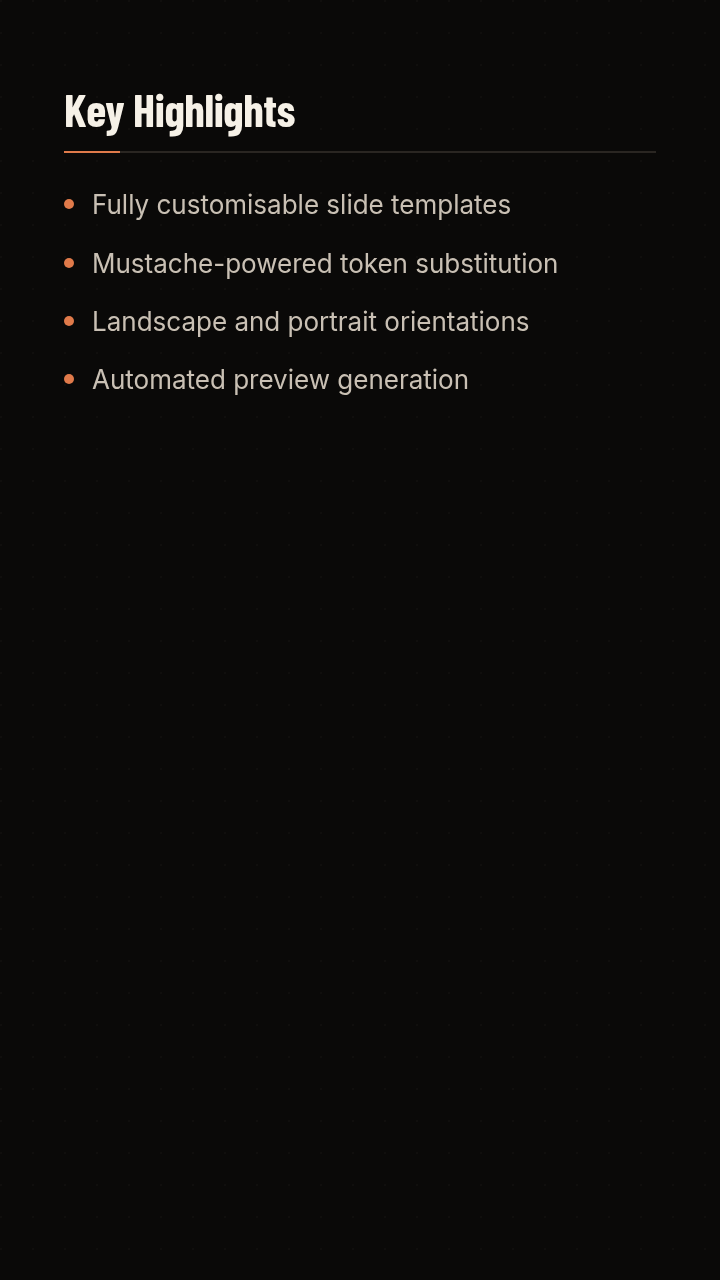
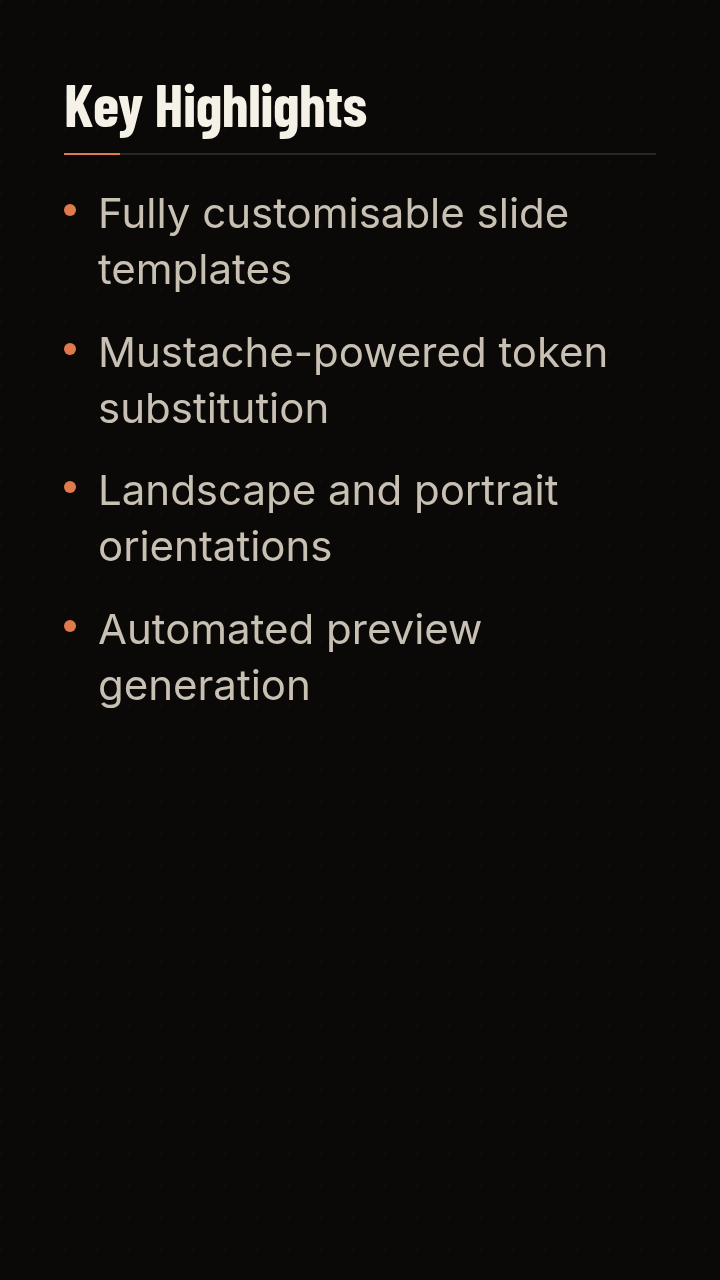
fix(templates): finish the portrait type pass for both Reel decks
Same cause as the previous commit: portrait kept landscape's absolute px type on
a canvas 1.78x taller, so type-as-share-of-frame fell to roughly half. This
extends the fix to every remaining template the two live Reel projects use, so
the decks do not need another round template by template.

bullet-list — the one that was reported. It held the SMALLEST body text in the
whole set: 26px, 2.03% of frame height, 39px at the 1080x1920 export. Body goes
to 42px (3.28%), title 46px to 60px (3.59% to 4.69%).

callout — body 29px to 40px (2.27% to 3.13%), title 59px to 64px, eyebrow 17px
to 22px.

stat-number — the sentence 37px to 46px (2.89% to 3.59%), source 17px to 22px,
eyebrow 19px to 24px. The 248px value is already 19.38% of the frame and is
untouched.

title — heading 76px to 88px (5.94% to 6.88%), subtitle 30px to 40px (2.34% to
3.13%), measure 560px to 592px.

big-statement — eyebrow only, 19px to 24px. Its statement is already 6.88% of
frame height and reads fine.

THE camera_box CONSTRAINT. Three of these slides carry a camera_box in the lower
quarter, where Tainan films himself over the slide (callout y~0.78, stat-number
y~0.74, big-statement y~0.76). Those templates grow their TYPE but keep their
bottom clearance — they are deliberately not stretched to fill the frame, unlike
kpi, whose slide carries no camera_box.

WHY THE SIZES ARE PER-TEMPLATE AND NOT ONE MULTIPLIER. Each template has its own
[…]

diff --git a/templates/callout/portrait.css b/templates/callout/portrait.css
@@ -1,10 +1,15 @@
-/* tpl-callout · portrait — 720×1280 */
+/* tpl-callout · portrait — 720×1280
+ *
+ * The card stays CENTRED and compact rather than growing to fill the frame:
+ * this template is used on slides that carry a `camera_box` at y≈0.78, so the
+ * lower quarter must stay clear for the webcam. Only the type grows.
+ */
 
 .tpl-root.tpl-callout.tpl-callout--portrait {
   position: relative;
   width: 720px;
   height: 1280px;
-  padding: 96px 75px;
+  padding: 84px 64px;
   background: var(--s-surface-page, #0a0908);
   color: var(--s-ink-primary, #f6f1e7);
   font-family: var(--s-font-body, 'Inter', system-ui, sans-serif);
@@ -29,20 +34,20 @@
 .tpl-root.tpl-callout.tpl-callout--portrait > * { position: relative; z-index: 1; }
 
 .tpl-root.tpl-callout.tpl-callout--portrait .tpl-callout__card {
-  padding: 53px 59px;
+  padding: 48px 52px;
   border: 1px solid var(--s-brand-border, rgba(224, 122, 74, 0.22));
   background: var(--s-brand-subtle, rgba(224, 122, 74, 0.10));
   border-radius: var(--p-radius-xl, 14px);
-  max-width: 587px;
+  max-width: 592px;
   position: relative;
   display: flex;
   flex-direction: column;
-  gap: 21px;
+  gap: 22px;
 }
 
 .tpl-root.tpl-callout.tpl-callout--portrait .tpl-callout__icon {
-  width: 48px;
-  height: 48px;
+  width: 58px;
+  height: 58px;
   border-radius: var(--p-radius-md, 6px);
   background: var(--s-brand-solid, #E07A4A);
   display: flex;
@@ -50,13 +55,13 @@
   justify-content: center;
   color: var(--s-ink-inverse, #0a0908);
   font-family: var(--s-font-mono, 'JetBrains Mono', monospace);
-  font-size: 29px;
+  font-size: 34px;
   font-weight: var(--p-weight-700, 700);
 }
 
 .tpl-root.tpl-callout.tpl-callout--portrait .tpl-callout__eyebrow {
   font-family: var(--s-font-mono, 'JetBrains Mono', monospace);
-  font-size: 17px;
+  font-size: 22px;
   letter-spacing: var(--p-tracking-wider, 0.8px);
   text-transform: uppercase;
   color: var(--s-brand-fg, #f0a872);
@@ -64,7 +69,7 @@
 
 .tpl-root.tpl-callout.tpl-callout--portrait .tpl-callout__title {
   font-family: var(--s-font-display, 'Barlow Condensed', sans-serif);
-  font-size: 59px;
+  font-size: 64px;
   font-weight: var(--p-weight-700, 700);
   letter-spacing: var(--p-tracking-tight, -0.4px);
   line-height: 1.05;
@@ -73,8 +78,8 @@
 }
 
 .tpl-root.tpl-callout.tpl-callout--portrait .tpl-callout__body {
-  font-size: 29px;
+  font-size: 40px;
   color: var(--s-ink-secondary, #c9c0b4);
-  line-height: 1.5;
+  line-height: 1.4;
   margin: 0;
 }

diff --git a/templates/bullet-list/portrait.css b/templates/bullet-list/portrait.css
@@ -1,10 +1,16 @@
-/* tpl-bullet-list · portrait — 720×1280 · DFL DS tokens */
+/* tpl-bullet-list · portrait — 720×1280 · DFL DS tokens
+ *
+ * Sized for a phone frame, not for the transposed desktop canvas. The list is
+ * top-anchored on purpose and does NOT stretch to fill the height: several
+ * slides in these decks carry a `camera_box` in the lower quarter, where Tainan
+ * films himself over the slide. Bigger type, same bottom clearance.
+ */
 
 .tpl-root.tpl-bullet-list {
   position: relative;
   width: 720px;
   height: 1280px;
-  padding: 85px 64px;
+  padding: 72px 64px;
   background: var(--s-surface-page, #0a0908);
   color: var(--s-ink-primary, #f6f1e7);
   font-family: var(--s-font-body, 'Inter', system-ui, sans-serif);
@@ -13,7 +19,7 @@
   isolation: isolate;
   display: flex;
   flex-direction: column;
-  gap: 34px;
+  gap: 30px;
 }
 
 .tpl-root.tpl-bullet-list::before {
@@ -31,7 +37,7 @@
 .tpl-root.tpl-bullet-list .tpl-bullet-list__title {
   flex: 0 0 auto;
   font-family: var(--s-font-display, 'Barlow Condensed', sans-serif);
-  font-size: 46px;
+  font-size: 60px;
   font-weight: var(--p-weight-600, 600);
   letter-spacing: var(--p-tracking-tight, -0.4px);
   line-height: 1.05;
@@ -59,7 +65,7 @@
   padding: 0;
   display: flex;
   flex-direction: column;
-  gap: 22px;
+  gap: 26px;
   flex: 1 1 auto;
   min-height: 0;
   overflow: hidden;
@@ -68,19 +74,19 @@
 .tpl-root.tpl-bullet-list .tpl-bullet-list__item {
   display: flex;
   align-items: flex-start;
-  font-size: 26px;
-  line-height: 1.4;
+  font-size: 42px;
+  line-height: 1.34;
   color: var(--s-ink-secondary, #c9c0b4);
 }
 
 .tpl-root.tpl-bullet-list .tpl-bullet-list__item::before {
   content: "";
   display: inline-block;
-  width: 10px;
-  height: 10px;
+  width: 12px;
+  height: 12px;
   background: var(--s-brand-solid, #E07A4A);
   border-radius: var(--p-radius-pill, 999px);
-  margin-top: 12px;
-  margin-right: 18px;
+  margin-top: 19px;
+  margin-right: 22px;
   flex-shrink: 0;
 }

diff --git a/templates/stat-number/portrait.css b/templates/stat-number/portrait.css
@@ -50,7 +50,7 @@
 
 .tpl-root.tpl-stat-number.tpl-stat-number--portrait .tpl-stat-number__eyebrow {
   font-family: var(--s-font-mono, 'JetBrains Mono', monospace);
-  font-size: 19px;
+  font-size: 24px;
   letter-spacing: var(--p-tracking-wider, 0.8px);
   text-transform: uppercase;
   color: var(--s-ink-muted, #7d7568);
@@ -86,8 +86,8 @@
 }
 
 .tpl-root.tpl-stat-number.tpl-stat-number--portrait .tpl-stat-number__label {
-  font-size: 37px;
-  line-height: 1.35;
+  font-size: 46px;
+  line-height: 1.3;
   color: var(--s-ink-secondary, #c9c0b4);
   margin: 16px 0 0;
   max-width: 24ch;
@@ -96,7 +96,7 @@
 
 .tpl-root.tpl-stat-number.tpl-stat-number--portrait .tpl-stat-number__source {
   font-family: var(--s-font-mono, 'JetBrains Mono', monospace);
-  font-size: 17px;
+  font-size: 22px;
   letter-spacing: var(--p-tracking-wide, 0.5px);
   color: var(--s-ink-muted, #7d7568);
 }

diff --git a/templates/title/portrait.css b/templates/title/portrait.css
@@ -30,12 +30,12 @@
 .tpl-root.tpl-title > * { position: relative; z-index: 1; }
 
 .tpl-root.tpl-title .tpl-title__inner {
-  max-width: 560px;
+  max-width: 592px;
 }
 
 .tpl-root.tpl-title .tpl-title__heading {
   font-family: var(--s-font-display, 'Barlow Condensed', sans-serif);
-  font-size: 76px;
+  font-size: 88px;
   font-weight: var(--p-weight-700, 700);
   letter-spacing: -2px;
   line-height: 1.02;
@@ -55,7 +55,7 @@
 
 .tpl-root.tpl-title .tpl-title__subtitle {
   font-family: var(--s-font-body, 'Inter', system-ui, sans-serif);
-  font-size: 30px;
+  font-size: 40px;
   font-weight: var(--p-weight-400, 400);
   color: var(--s-ink-secondary, #c9c0b4);
   line-height: 1.45;

diff --git a/templates/big-statement/portrait.css b/templates/big-statement/portrait.css
@@ -52,7 +52,7 @@
 
 .tpl-root.tpl-big-statement.tpl-big-statement--portrait .tpl-big-statement__eyebrow {
   font-family: var(--s-font-mono, 'JetBrains Mono', monospace);
-  font-size: 19px;
+  font-size: 24px;
   letter-spacing: var(--p-tracking-wider, 0.8px);
   text-transform: uppercase;
   color: var(--s-ink-muted, #7d7568);
